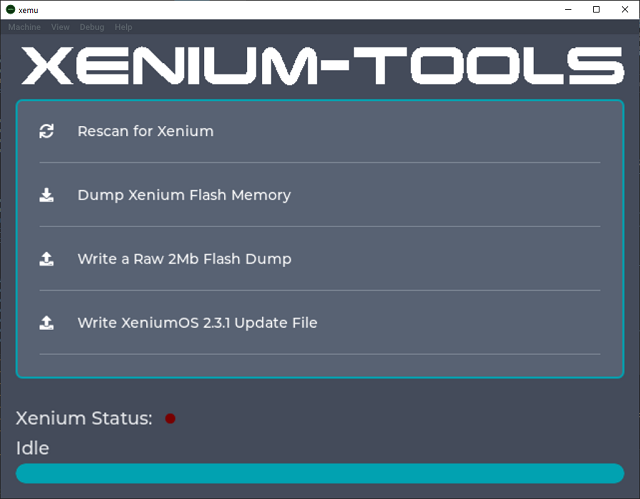
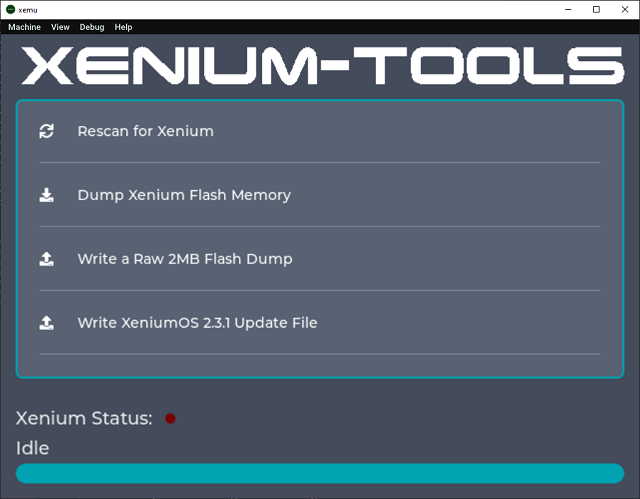
Menu: MByte not Mbit

Changed region(s): [[0.0, 0.0, 1.0, 0.0902], [0.2812, 0.511, 0.4688, 0.5411]]

diff --git a/menu.c b/menu.c
@@ -111,7 +111,7 @@ void create_menu(void)
 
     lv_obj_set_event_cb(lv_list_add_btn(main_list, LV_SYMBOL_REFRESH, "Rescan for Xenium"), cb_btn_xenium_rescan);
     lv_obj_set_event_cb(lv_list_add_btn(main_list, LV_SYMBOL_DOWNLOAD, "Dump Xenium Flash Memory"), cb_btn_xenium_dump);
-    lv_obj_set_event_cb(lv_list_add_btn(main_list, LV_SYMBOL_UPLOAD, "Write a Raw 2Mb Flash Dump"), cb_btn_xenium_write_raw);
+    lv_obj_set_event_cb(lv_list_add_btn(main_list, LV_SYMBOL_UPLOAD, "Write a Raw 2MB Flash Dump"), cb_btn_xenium_write_raw);
     lv_obj_set_event_cb(lv_list_add_btn(main_list, LV_SYMBOL_UPLOAD, "Write XeniumOS 2.3.1 Update File"), cb_btn_xenium_write_update);
     lv_obj_set_event_cb(lv_list_add_btn(main_list, LV_SYMBOL_LOOP, "Cycle the Xenium RGB LED"), cb_btn_xenium_rgb);
     lv_obj_set_event_cb(lv_list_add_btn(main_list, LV_SYMBOL_TRASH, "Cancel Current Action"), cb_btn_cancel);
@@ -255,7 +255,7 @@ static void cb_btn_xenium_dump(lv_obj_t *ta, lv_event_t e)
     }
 }
 
-/* Write a raw 2mb flash dump to the Xenium */
+/* Write a raw 2MB flash dump to the Xenium */
 static void cb_btn_xenium_write_raw(lv_obj_t *ta, lv_event_t e)
 {
     if (xenium_queue[0] != 0xFFFF)
@@ -278,7 +278,7 @@ static void cb_btn_xenium_write_raw(lv_obj_t *ta, lv_event_t e)
     else if (e == LV_EVENT_CANCEL)
     {
         lv_textarea_set_cursor_pos(alert_box, 0);
-        lv_textarea_set_text(alert_box, "Write a raw 2mb flash dump to the Xenium");
+        lv_textarea_set_text(alert_box, "Write a raw 2MB flash dump to the Xenium");
         lv_obj_fade_out(alert_box, 500, 1500);
     }
 }
